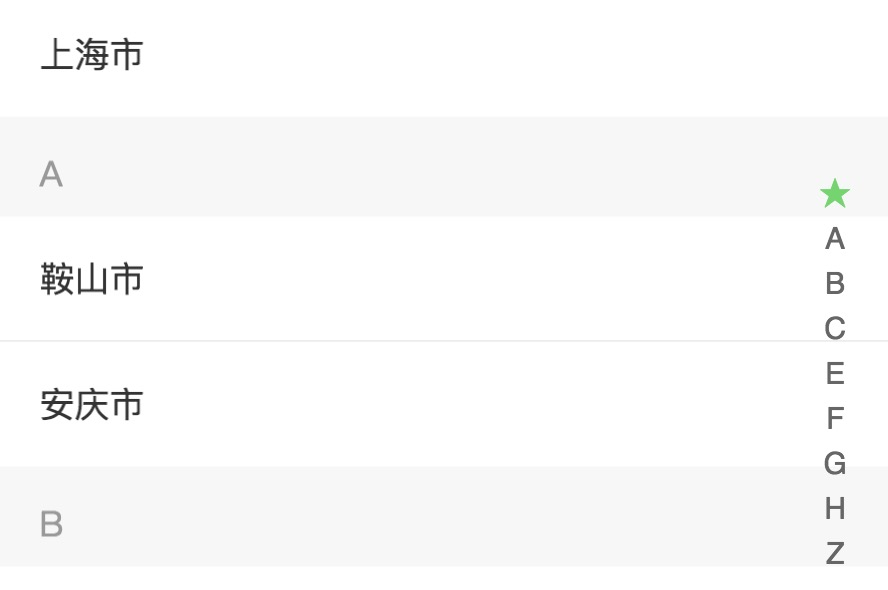
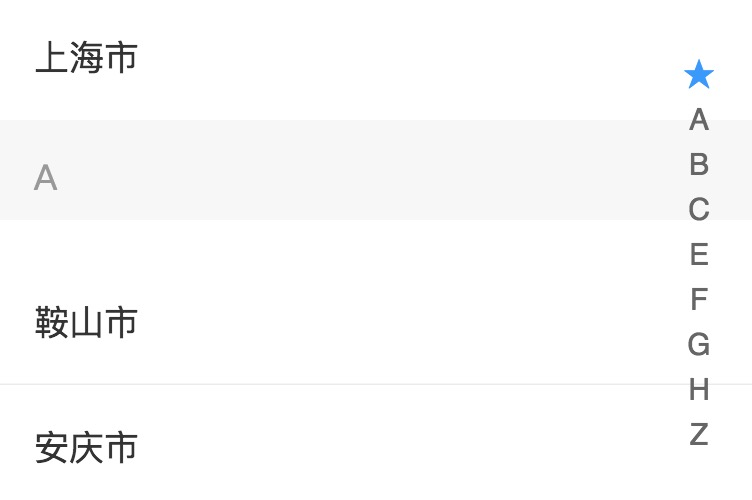
optimize UI

diff --git a/example/components/optional-demo/optional-demo.vue b/example/components/optional-demo/optional-demo.vue
@@ -3,7 +3,7 @@
     <div class="flex-box">
       <header class="header">
         <h1>{{title}}</h1>
-        <span @click="back" class="back">back</span>
+        <img class="back" :src="backIcon" @click="back" alt="back"/>
       </header>
       <div ref="wrapper" class="page-content">
         <main class="main-content">
@@ -50,6 +50,11 @@
         default: ''
       }
     },
+    data() {
+      return {
+        backIcon: require('../../common/images/back.svg')
+      }
+    },
     methods: {
       back() {
         this.$router.back()
@@ -86,14 +91,13 @@
         h1
           margin: 0
           font-size: 16px
-          font-weight: 700
+          color: $color-main
         .back
           position: absolute
-          top: 0
-          left: 0
-          padding: 0 15px
-          font-size: 14px
-          color: $color-green
+          top: 9px
+          left: 15px
+          width: 26px
+          color: $color-main
       .page-content
         flex: 1 0 95%
         overflow scroll
@@ -175,8 +179,8 @@
                 height: 2.5rem
                 border-bottom-left-radius: $radius-size-medium
                 border-bottom-right-radius: $radius-size-medium
-                background-color: $color-green
-                box-shadow: 0 0 0 1px $color-green
+                background-color: $color-main-l
+                box-shadow: 0 0 0 1px $color-main-l
                 border: none
                 outline: none
                 color: $color-white

diff --git a/static/css/stylesheet.css b/static/css/stylesheet.css
@@ -19,8 +19,9 @@ a {
 .btn {
   display: inline-block;
   margin-bottom: 1rem;
-  color: rgba(255, 255, 255, 0.7);
-  background-color: rgba(255, 255, 255, 0.08);
+  padding: 0.75rem 1rem;
+  color: rgba(255, 255, 255, 0.8);
+  background-color: rgba(255, 255, 255, 0.1);
   border-color: rgba(255, 255, 255, 0.2);
   border-style: solid;
   border-width: 1px;
@@ -30,18 +31,13 @@ a {
     margin-left: 1rem; }
 
 .btn:hover {
-  color: rgba(255, 255, 255, 0.8);
+  color: rgba(255, 255, 255, 0.9);
   text-decoration: none;
   background-color: rgba(255, 255, 255, 0.2);
   border-color: rgba(255, 255, 255, 0.3); }
 
-@media screen and (min-width: 64em) {
-  .btn {
-    padding: 0.75rem 1rem; } }
-
 @media screen and (min-width: 42em) and (max-width: 64em) {
   .btn {
-    padding: 0.6rem 0.9rem;
     font-size: 0.9rem; } }
 
 @media screen and (max-width: 42em) {
@@ -111,9 +107,7 @@ a {
   max-width: 100%; }
 .main-content h1, .main-content h2, .main-content h3, .main-content h4, .main-content h5, .main-content h6 {
   margin-top: 1rem;
-  margin-bottom: 1rem;
-  font-weight: normal;
-  color: #159957; }
+  margin-bottom: 1rem; }
 .main-content code {
   padding: 2px 4px;
   font-family: Consolas, "Liberation Mono", Menlo, Courier, monospace;

diff --git a/example/components/page/page.vue b/example/components/page/page.vue
@@ -2,7 +2,7 @@
   <div class="page">
     <header class="header">
       <h1>{{title}}</h1>
-      <span @click="back" class="back">back</span>
+      <img class="back" :src="backIcon" @click="back" alt="back"/>
     </header>
     <div class="wrapper">
       <section v-show="desc" class="desc">
@@ -30,6 +30,11 @@
       content: {
         type: String,
         default: ''
+      }
+    },
+    data() {
+      return {
+        backIcon: require('../../common/images/back.svg')
       }
     },
     methods: {
@@ -64,14 +69,13 @@
       h1
         margin: 0
         font-size: 16px
-        font-weight: 700
+        color: $color-main
       .back
         position: absolute
-        top: 0
-        left: 0
-        padding: 0 15px
-        font-size: 14px
-        color: $color-green
+        top: 9px
+        left: 15px
+        width: 26px
+        color: $color-main
     .wrapper
       width: 100%
       display: flex

diff --git a/example/components/picker/picker.vue b/example/components/picker/picker.vue
@@ -288,9 +288,9 @@
           font-size: $fontsize-medium
         .confirm
           right: 0
-          color: $color-orange
+          color: $color-main
           &:active
-            color: $color-active-light-orange-fe
+            color: $color-main-ll
         .cancel
           left: 0
           &:active

diff --git a/example/components/index-list/index-list.vue b/example/components/index-list/index-list.vue
@@ -276,7 +276,7 @@
               font-size: $fontsize-small
               color: $color-grey
               &.active
-                color: $color-green
+                color: $color-main-l
             @media (max-height: 480px)
               li
                 padding-top: 3px

diff --git a/example/components/switch-option/switch-option.vue b/example/components/switch-option/switch-option.vue
@@ -62,7 +62,7 @@
       border: 2px solid rgba(0, 0, 0, .1)
       transition: all 0.1s
       &.active
-        background-color: $color-green
+        background-color: $color-main-l
         border-color: transparent
         transition: all 0.2s ease 0.2s
       .switch-circle

diff --git a/example/components/input-option/input-option.vue b/example/components/input-option/input-option.vue
@@ -52,6 +52,6 @@
       box-shadow: 0 0 1px 1px #eee inset
       outline: none
       &:focus
-        border: 1px solid $color-green
+        border: 1px solid $color-main
 
 </style>

diff --git a/example/App.vue b/example/App.vue
@@ -84,7 +84,7 @@
       @media screen and (max-width: 42rem)
         margin-bottom: 0.5rem
     .btn
-      min-width: 6rem
+      min-width: 7rem
 
   .main-content
     .site-footer

diff --git a/example/components/select-option/select-option.vue b/example/components/select-option/select-option.vue
@@ -60,6 +60,6 @@
       outline: none
       border-radius: 0
       &:focus
-        border: 1px solid $color-green
+        border: 1px solid $color-main
 
 </style>
